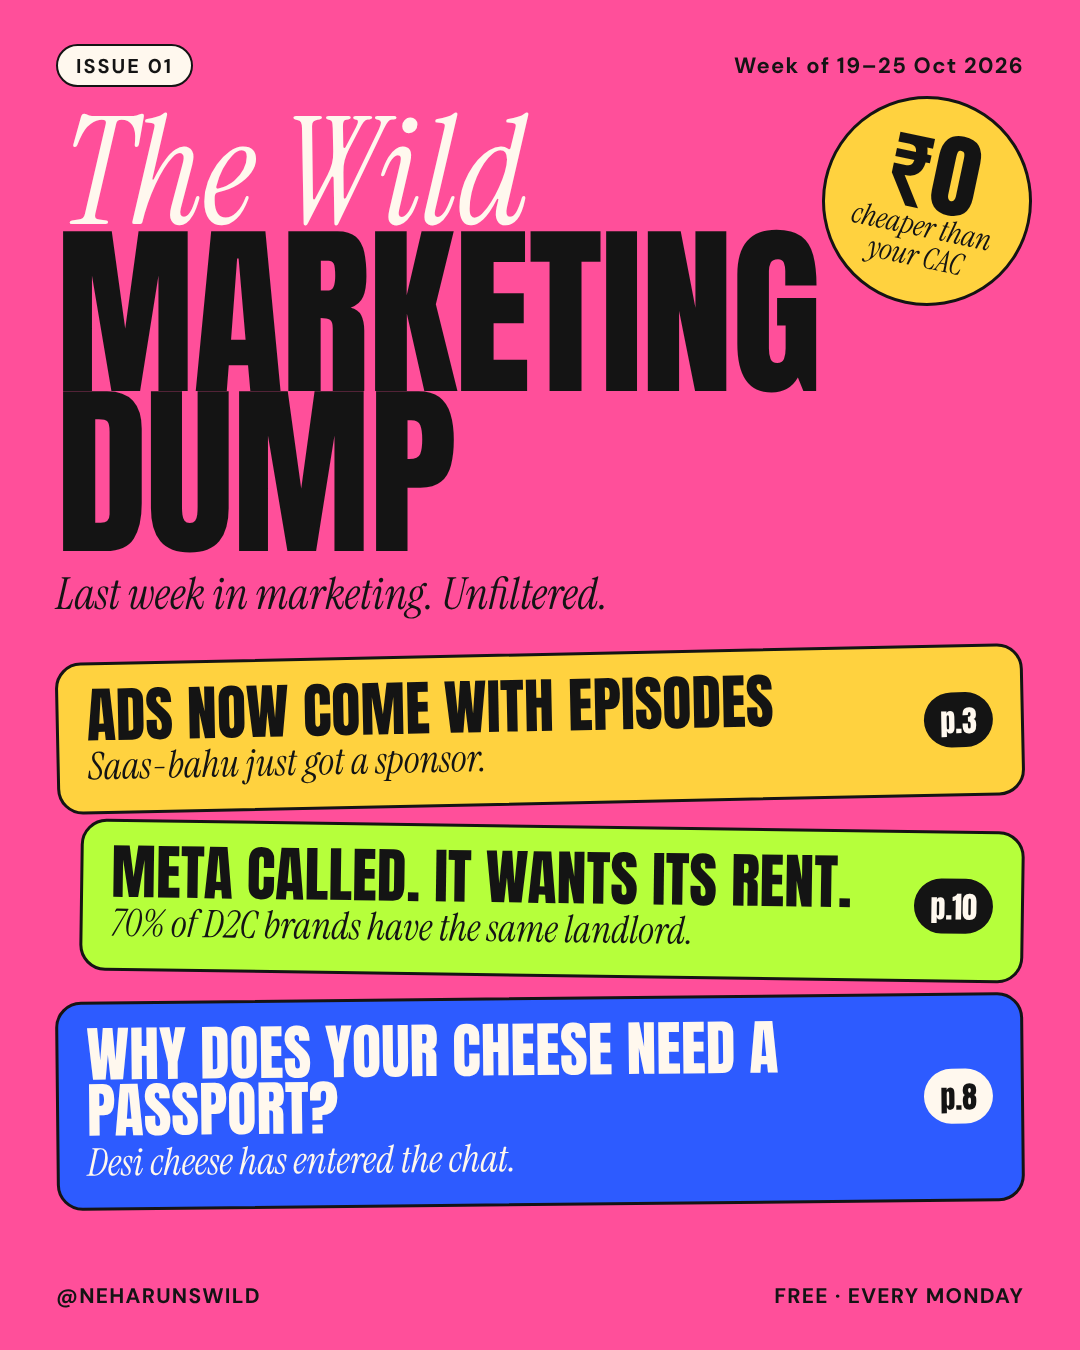
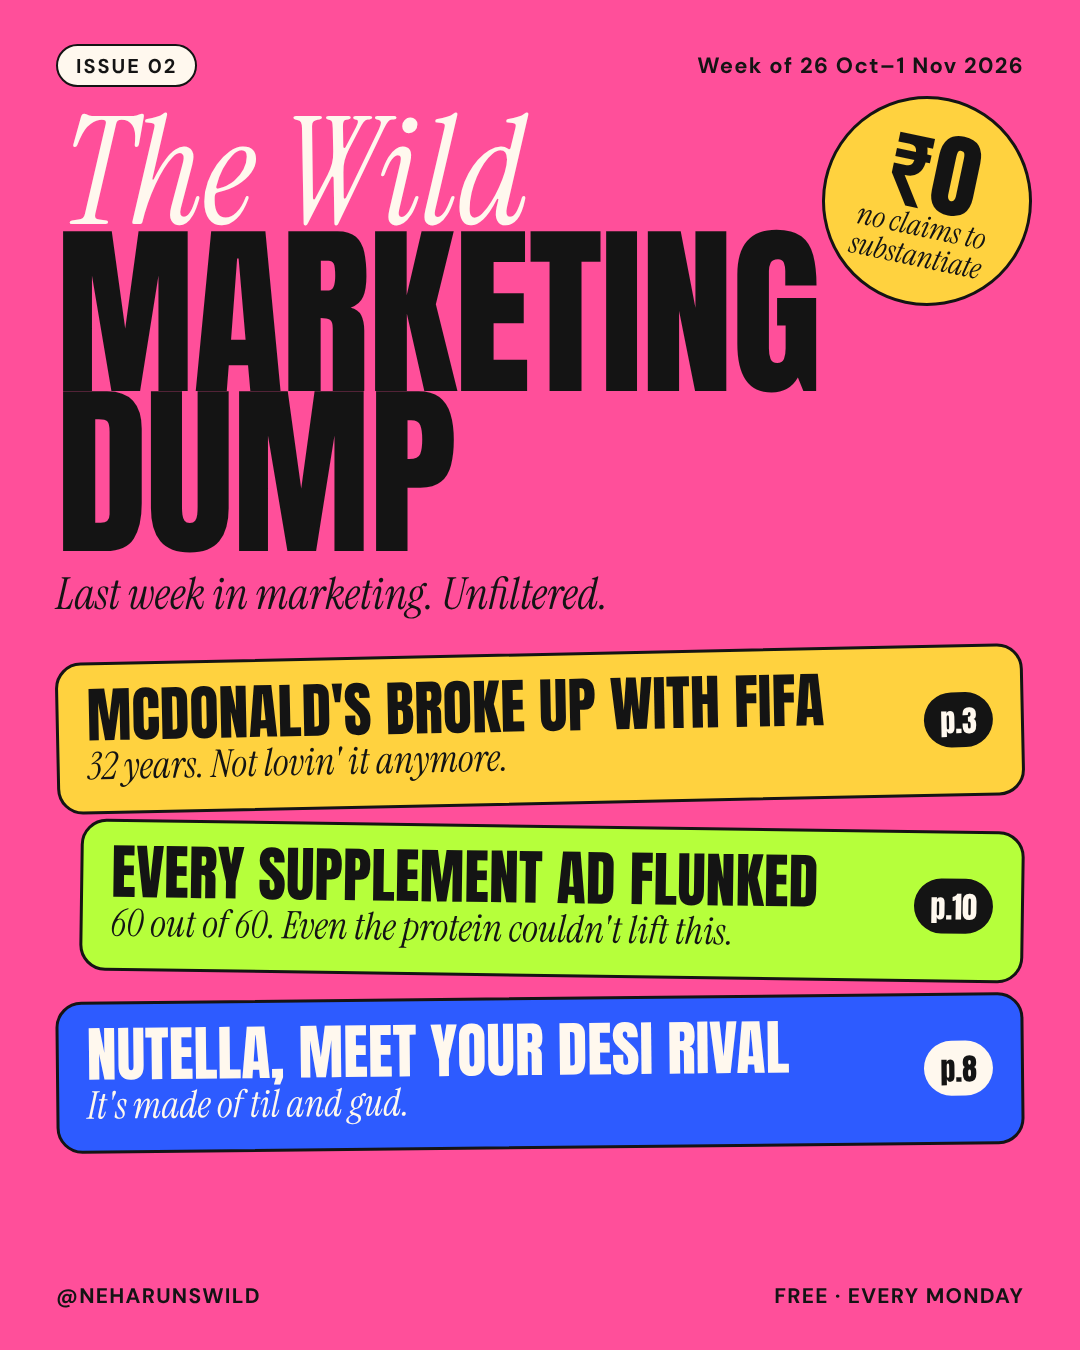
Publish Issue 02 and scope Issue 02 style overrides
Claude-Session: https://claude.ai/code/session_01FzwNAQjEPeD4uv3fqVFLUo

diff --git a/mag.css b/mag.css
@@ -329,10 +329,10 @@
 .toc16 .n { font-size: 44px; padding: 8px 0 4px; }
 .steal .redact h3 { font-size: 84px; }
 .steal .redact p { font-size: 32px; }
-.steal .gyaan p { font-size: 28px; }
-.steal .steps3 h4 { font-size: 36px; }
-.steal .steps3 p { font-size: 24px; }
-.steal .steps3 b { font-size: 64px; }
+.steal:has(.redact) .gyaan p { font-size: 28px; }
+.steal:has(.redact) .steps3 h4 { font-size: 36px; }
+.steal:has(.redact) .steps3 p { font-size: 24px; }
+.steal:has(.redact) .steps3 b { font-size: 64px; }
 .ai .ditem { padding: 30px 0; }
 .ai .ditem h3 { font-size: 62px; }
 .ai .ditem p.b { font-size: 30px; }
